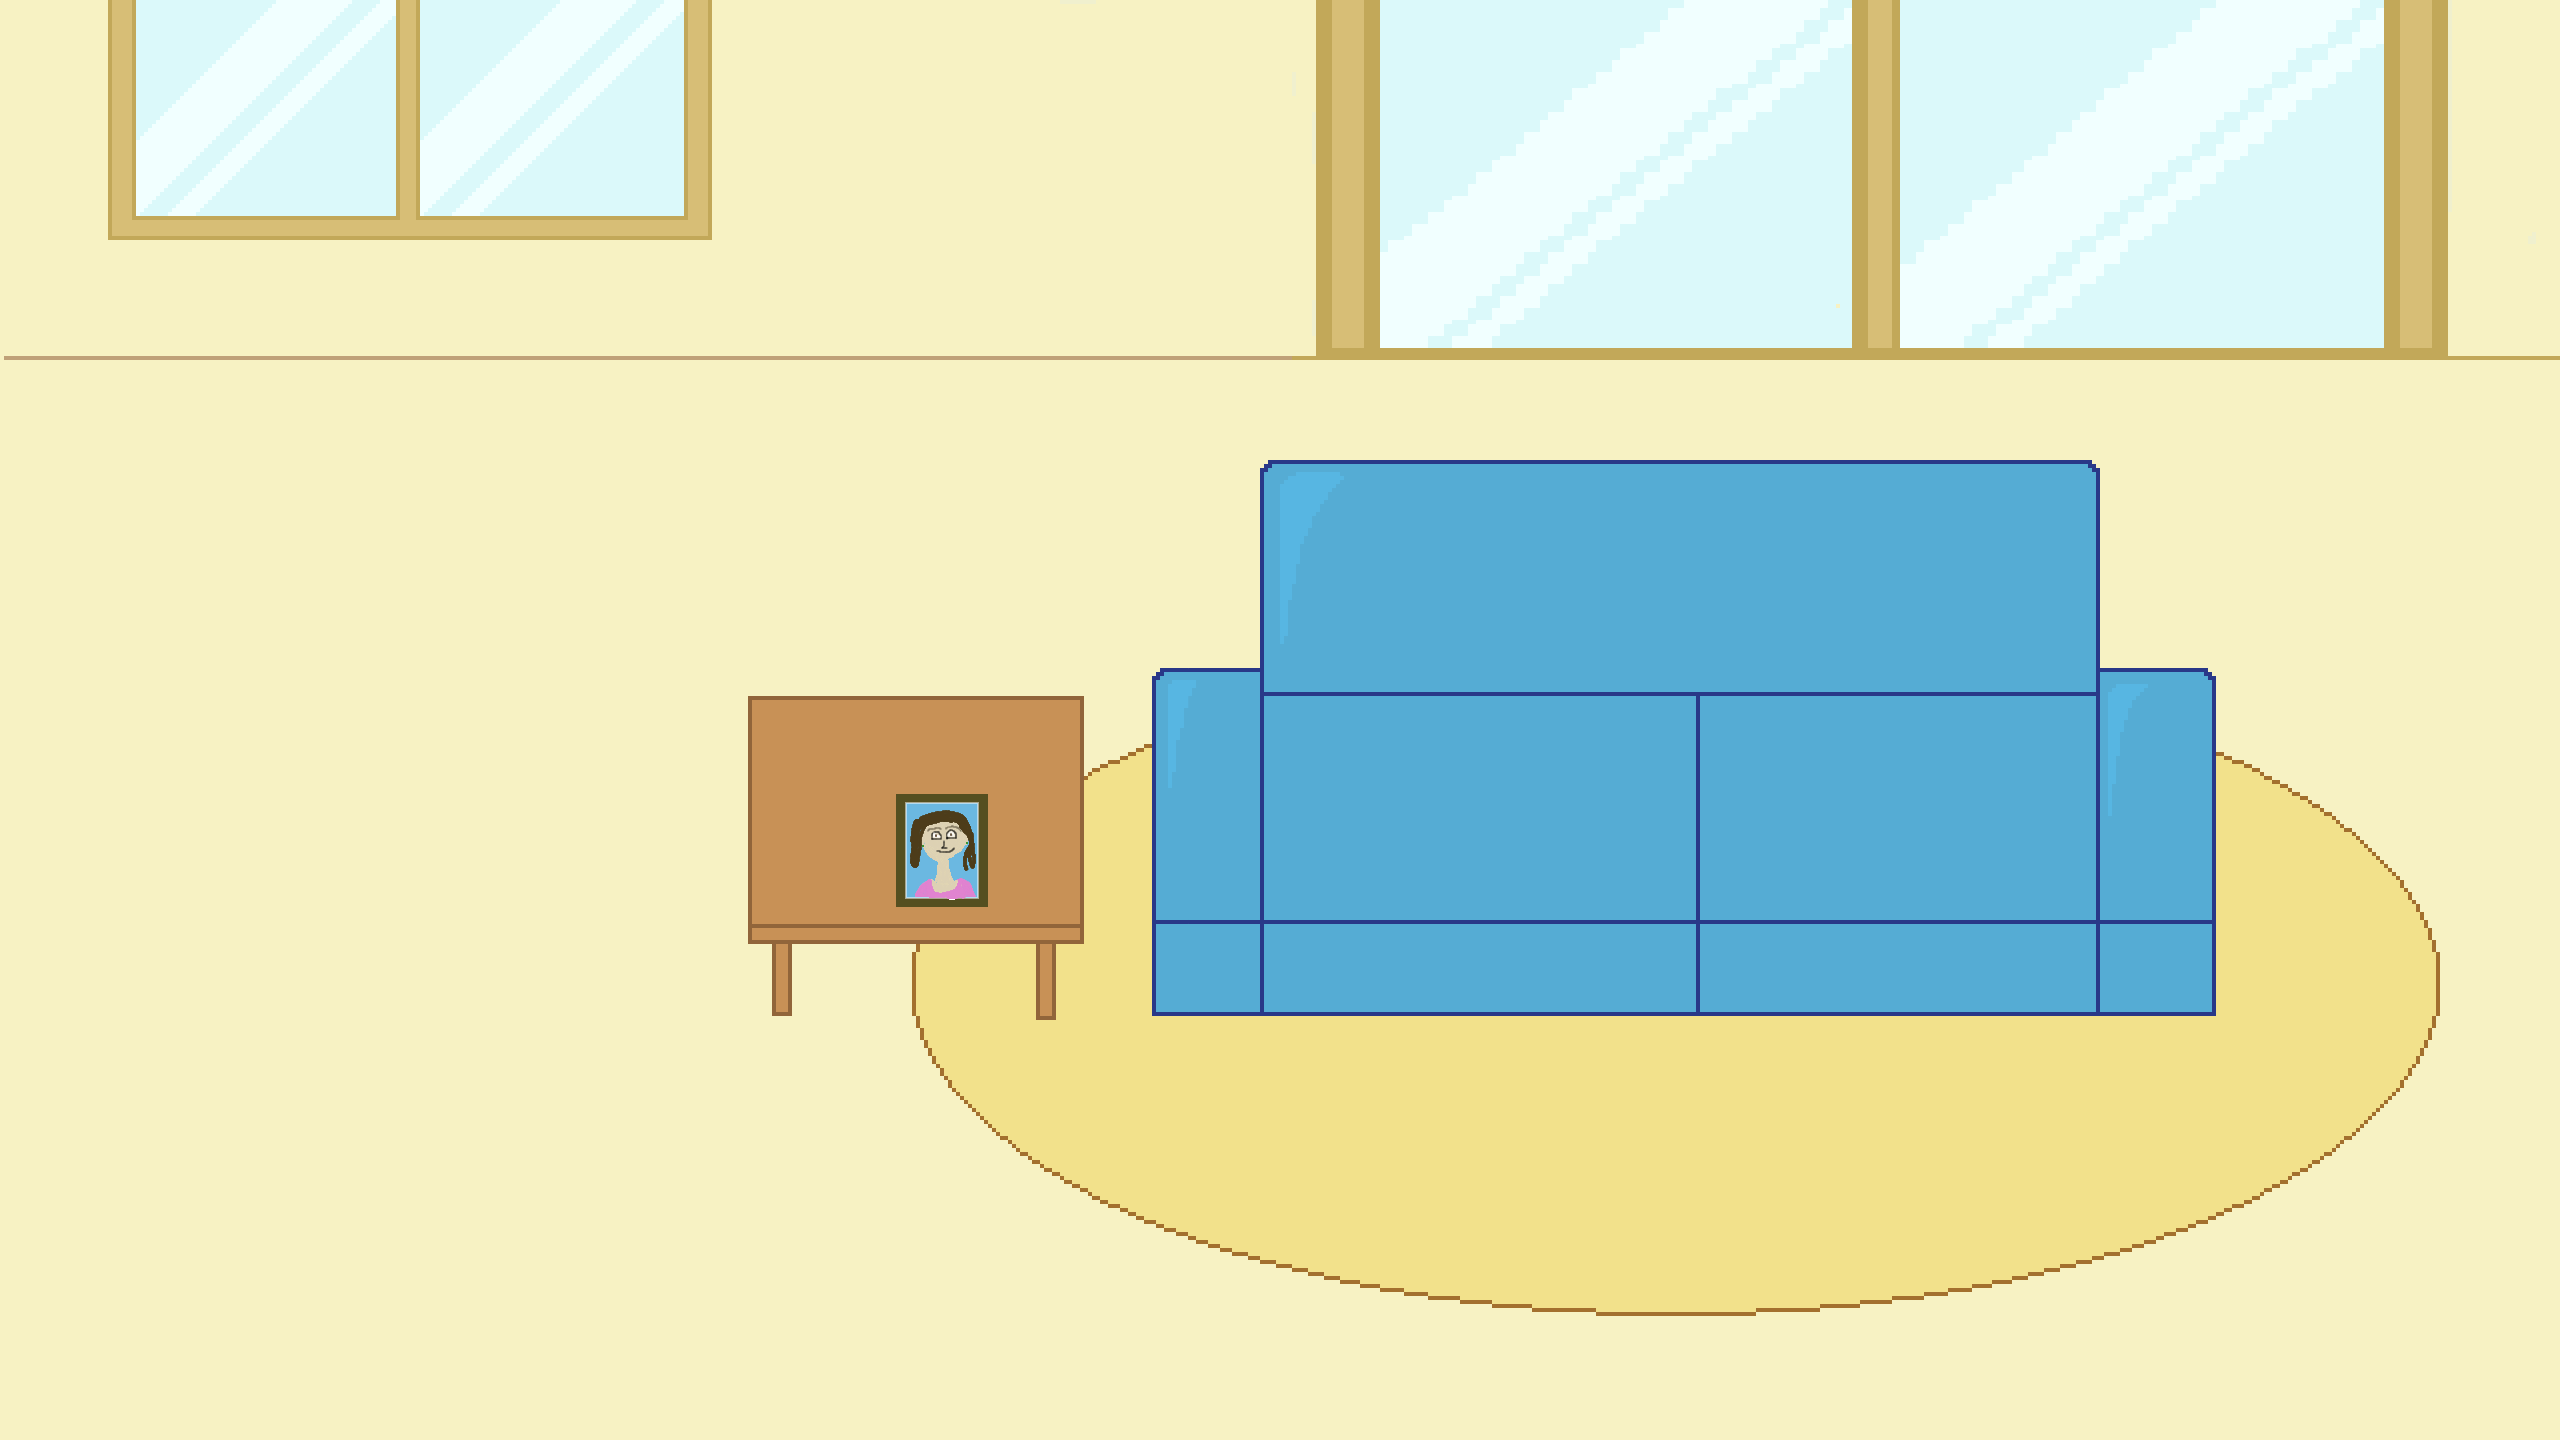
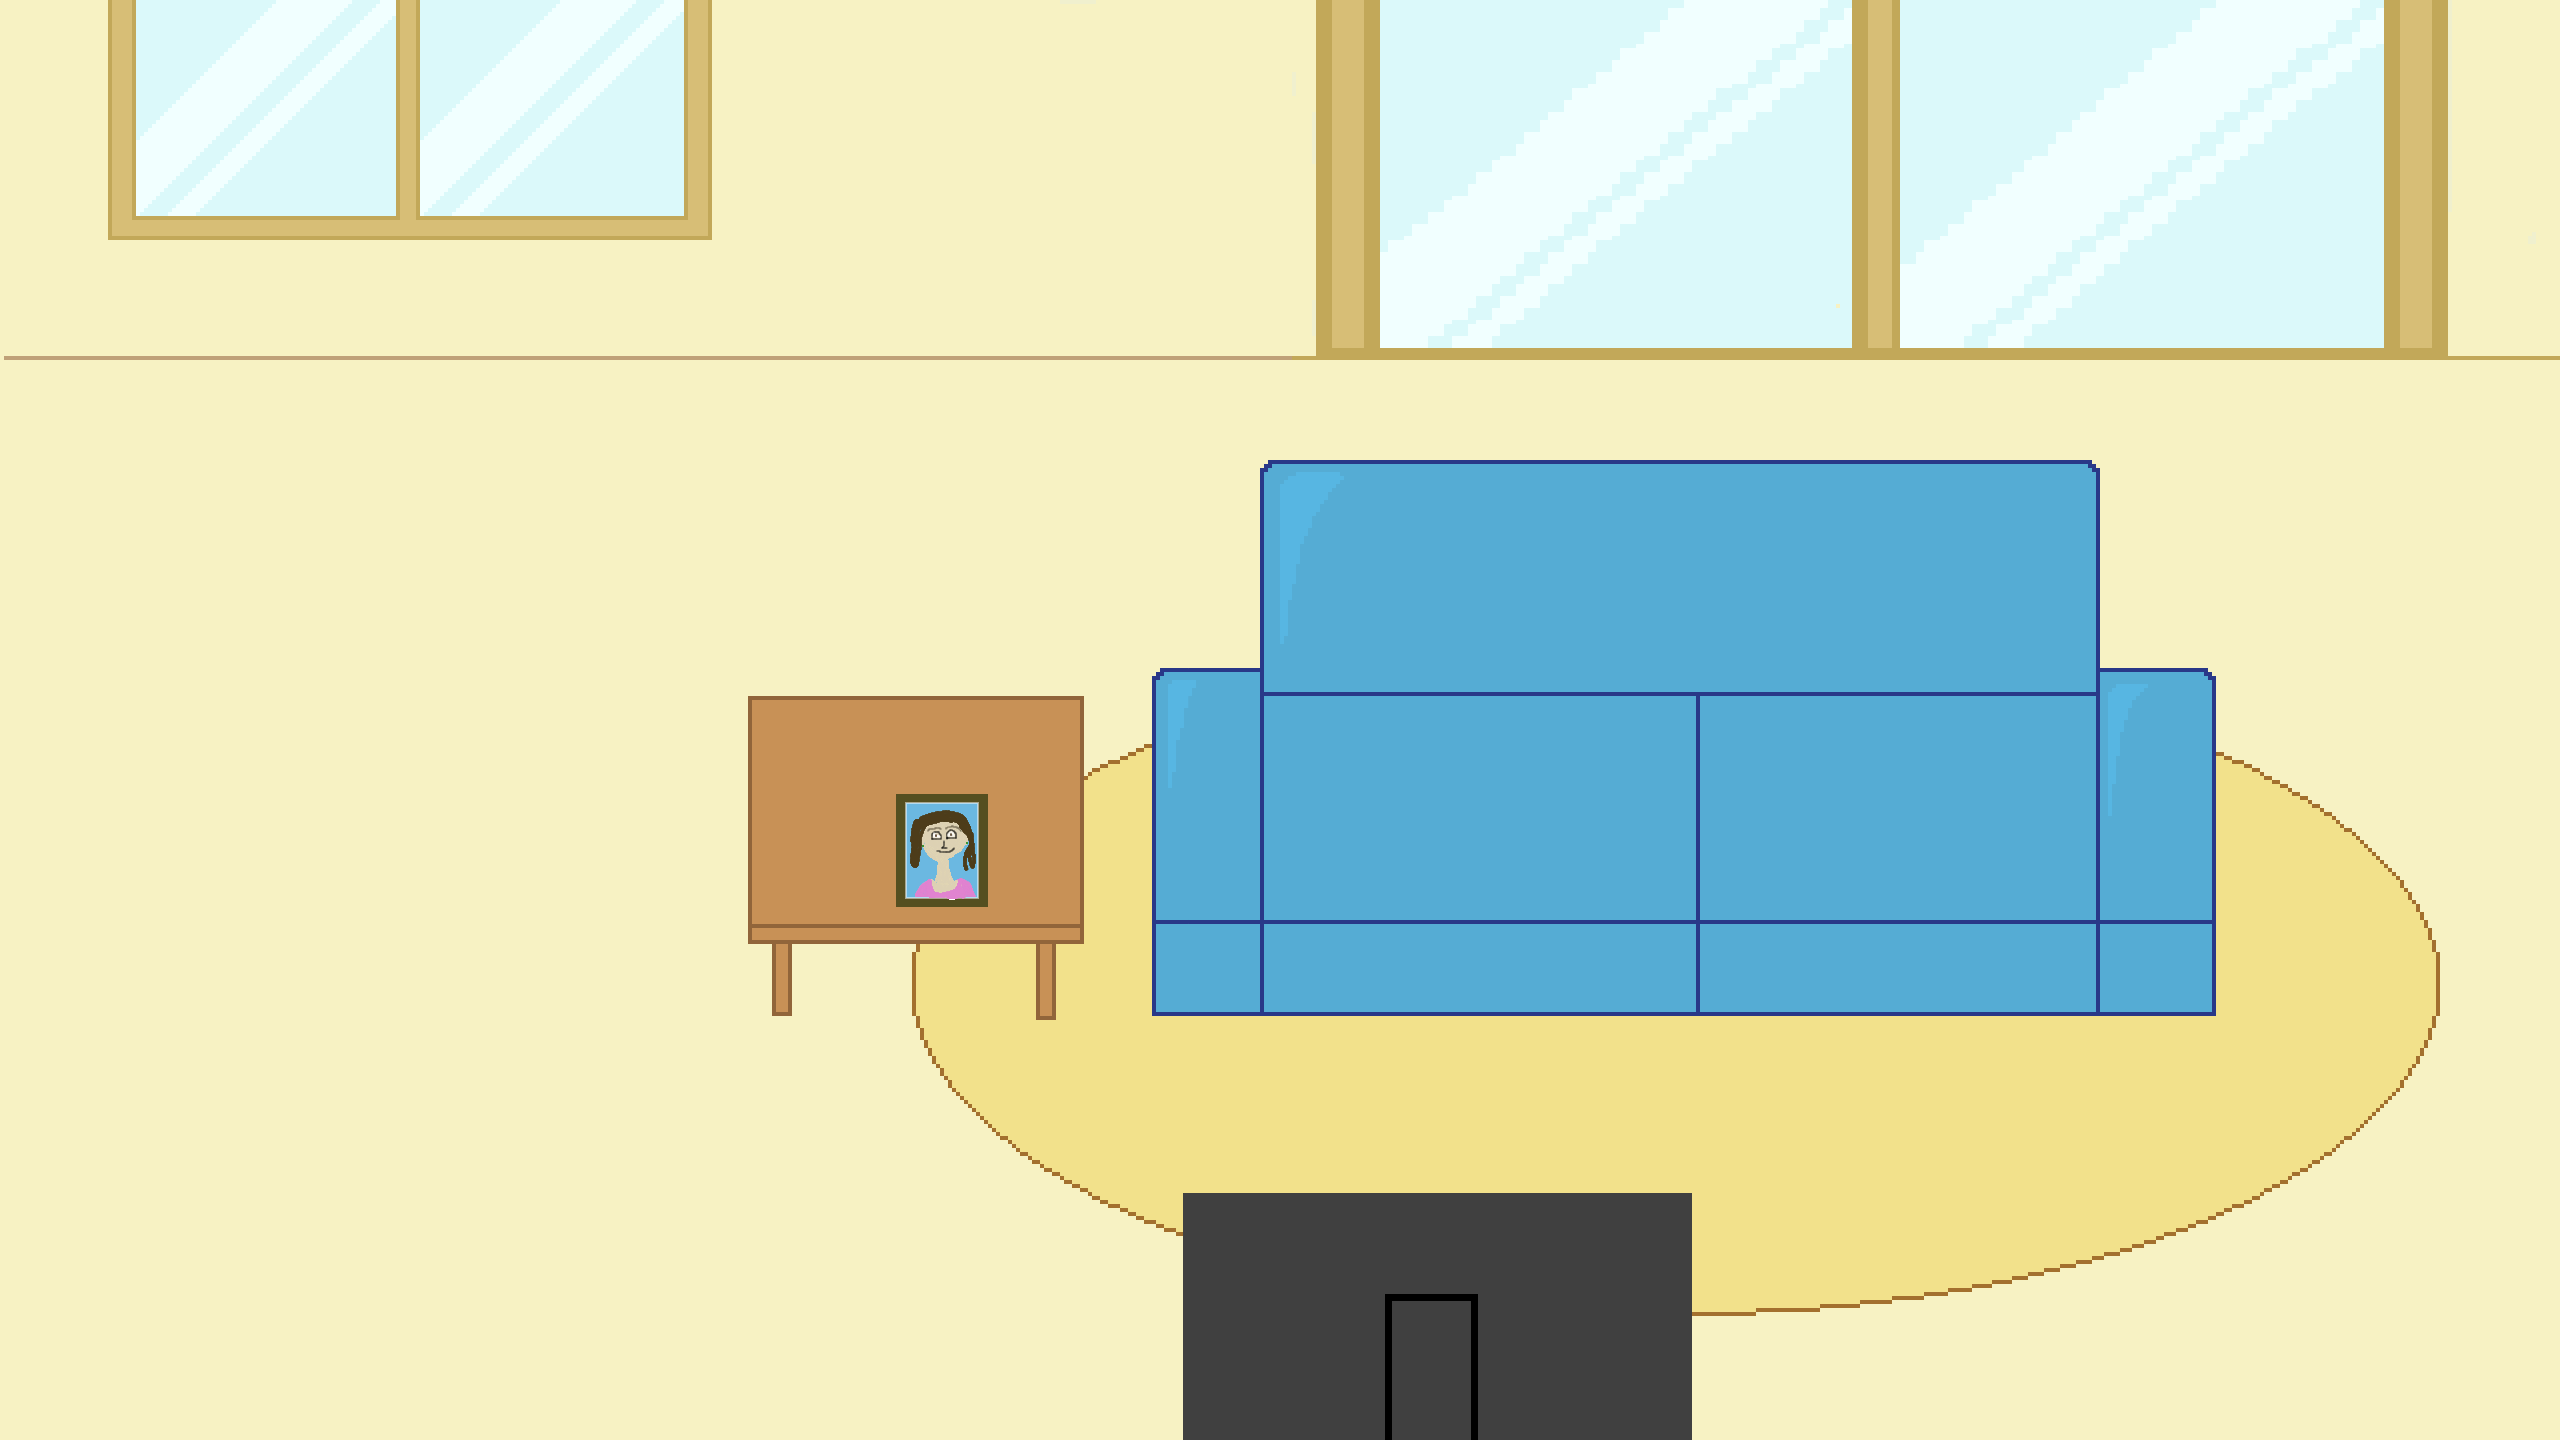
EW: A few art updates and spelling fixes

Changed region(s): [[0.4375, 0.8125, 0.6875, 1.0]]

diff --git a/Assets/Scripts/EarlyWarning/EW_UIManager.cs b/Assets/Scripts/EarlyWarning/EW_UIManager.cs
@@ -33,7 +33,7 @@ public class EW_UIManager : MonoBehaviour
     [SerializeField]
     private float landscapeOrthographicSize = 5f, portraitOrthographicSize = 9f;
 
-    public Button EscapeButton;
+    public Button escapeButton;
 
     public void Start()
     {
@@ -72,7 +72,7 @@ public class EW_UIManager : MonoBehaviour
 
     public void ShowEscapeButton()
     {
-        EscapeButton.gameObject.SetActive(true);
+        escapeButton.gameObject.SetActive(true);
     }
 
 
@@ -88,7 +88,7 @@ public class EW_UIManager : MonoBehaviour
         text += "Cleaned the yard:" + (EW_SceneManager.cutLawn ? "YES" : "NO") + "\n";
         text += "Cut the tree:" + (EW_SceneManager.cutTree ? "YES" : "NO") + "\n";
         text += "Cleaned the gutters: " + (EW_SceneManager.cleanedGutters ? "YES" : "NO") + "\n";
-        text += "Made breakfast: " + (EW_SceneManager.madeBreakfast ? "YES" : "NO") + "\n";
+        text += "Prepared Go Bag: " + (EW_SceneManager.goBag ? "YES" : "NO") + "\n";
         return text;
     }
 
@@ -180,7 +180,10 @@ public class EW_UIManager : MonoBehaviour
             Destroy(button.gameObject);
         }
         choiceButtons.Clear();
-        EscapeButton.gameObject.SetActive(false);
+        if (escapeButton != null)
+        {
+            escapeButton.gameObject.SetActive(false);
+        }
     }
 
     public void BeginDialogue(EW_DialogueLine line)

diff --git a/Assets/Scripts/EarlyWarning/EW_StoryFunctions.cs b/Assets/Scripts/EarlyWarning/EW_StoryFunctions.cs
@@ -27,13 +27,15 @@ public class EW_StoryFunctions
 
     public static void WarningHeard()
     {
-        uiManager.ShowEscapeButton();
+        // uiManager.ShowEscapeButton();
     }
 
 
     public static void ShowImage1()
     {
-        sceneManager.background.sprite = Resources.Load<Sprite>("EarlyWarning/Art/IntroDraft1");
+        Sprite sprite = Resources.Load<Sprite>("EarlyWarning/Art/IntroDraft1");
+        Debug.Log(sprite);
+        sceneManager.background.sprite = sprite;
     }
 
     public static void ShowImage2()
@@ -54,7 +56,6 @@ public class EW_StoryFunctions
     public static void GoBag()
     {
         EW_SceneManager.goBag = true;
-        Debug.Log("GoBag()_called");
         useUpTime(30);
     }
 
